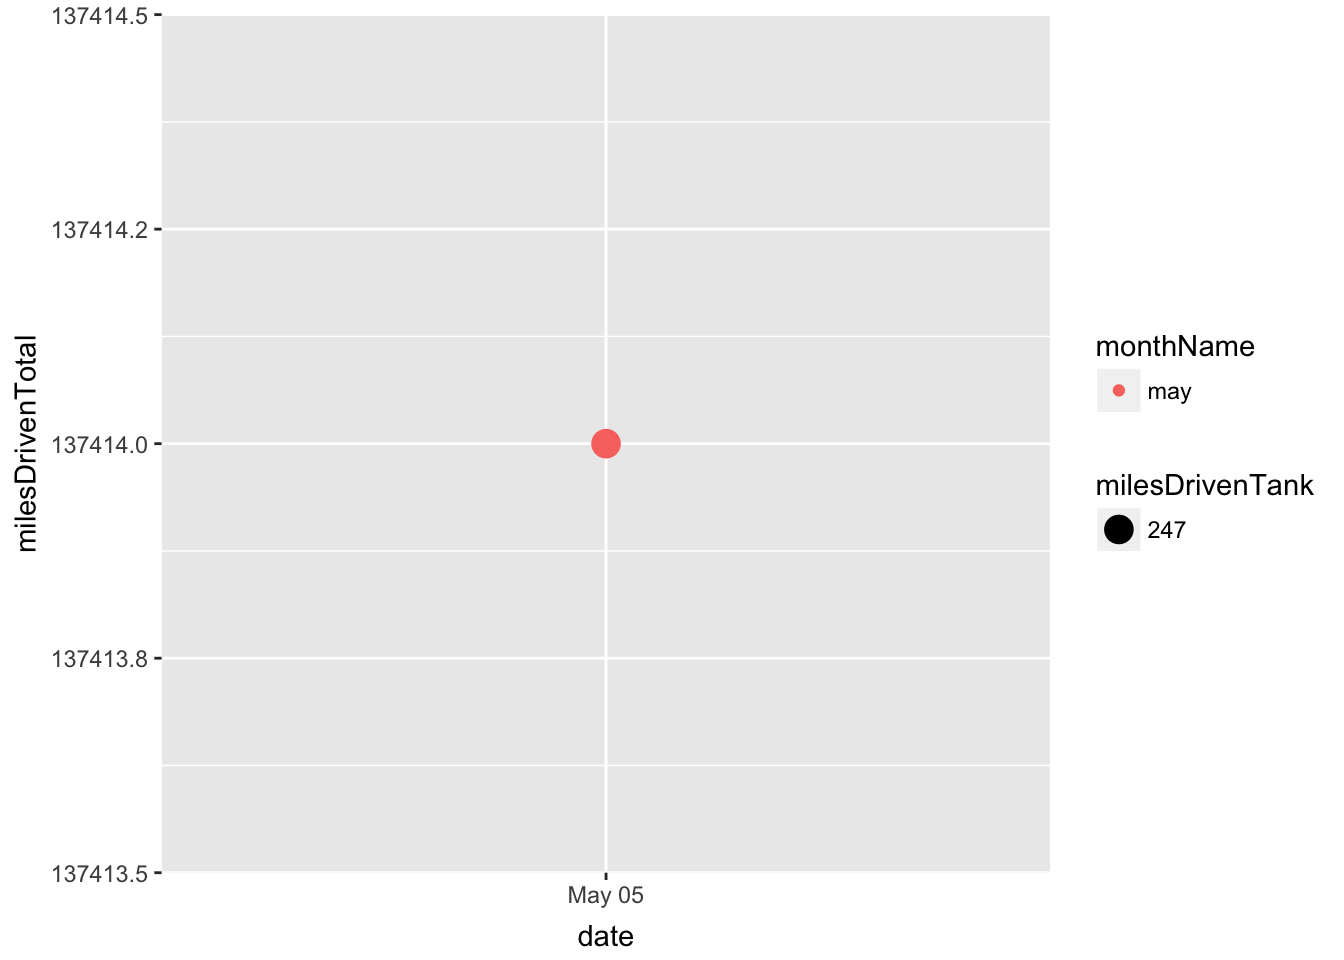
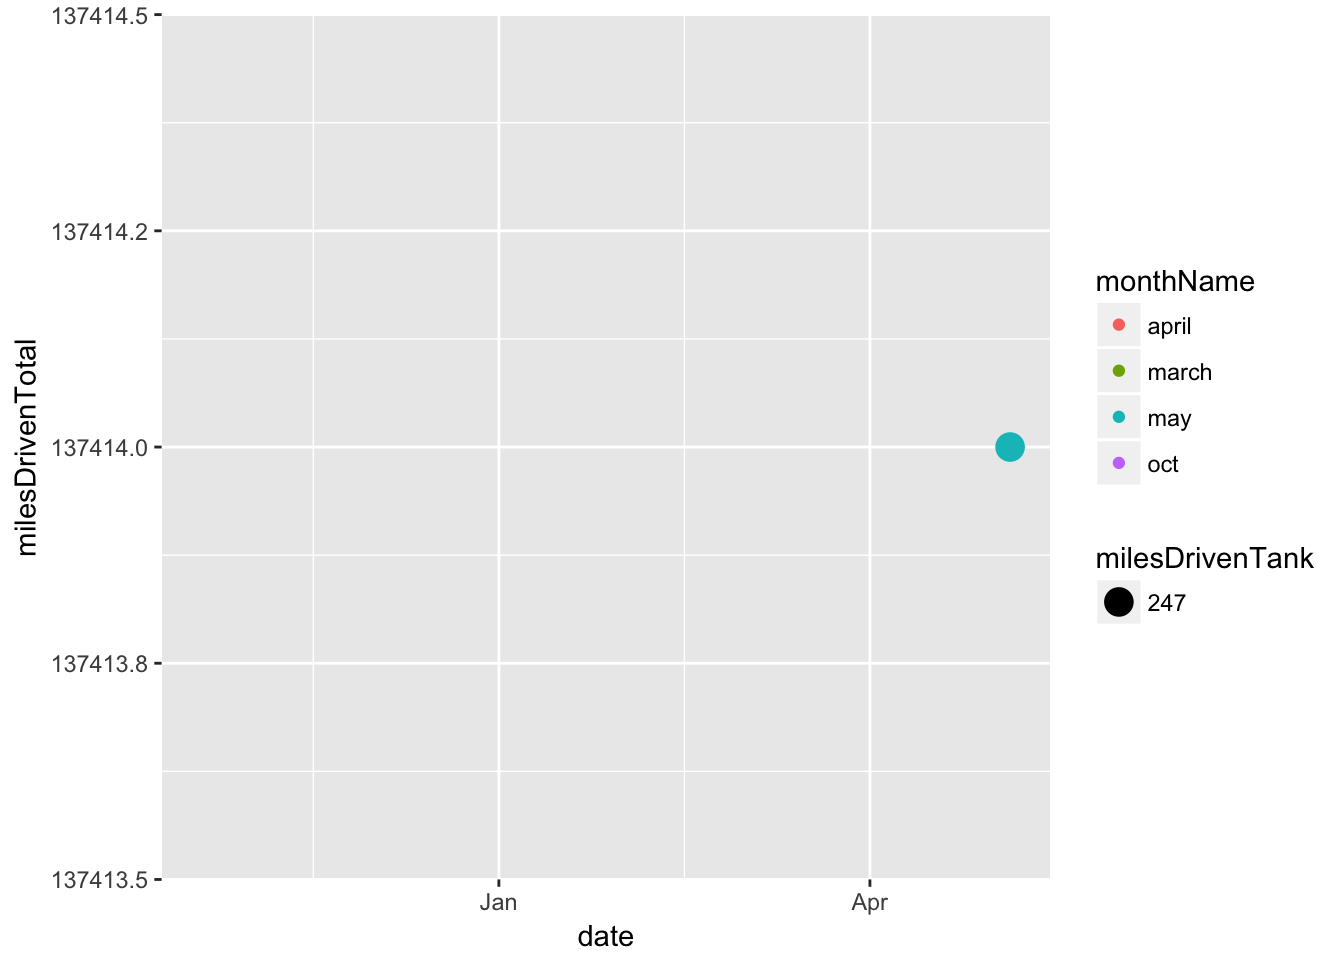
added previous dates

diff --git a/index.html b/index.html
@@ -236,28 +236,31 @@ library(leaflet); library(RCurl); library(lubridate)</code></pre>
 <pre class="r"><code>gLog &lt;- read_csv(&quot;./data/gas_log_data.csv&quot;)</code></pre>
 <pre class="r"><code># check data frame
 glimpse(gLog)</code></pre>
-<pre><code>## Observations: 1
-## Variables: 13
-## $ Timestamp        &lt;chr&gt; &quot;5/5/2017 9:45:51&quot;
-## $ date             &lt;date&gt; 2017-05-05
-## $ time             &lt;chr&gt; &quot;7H 53M 0S&quot;
-## $ location         &lt;chr&gt; &quot;Raceway, 1555 NJ-27, Edison, NJ 08817&quot;
-## $ Latitude         &lt;dbl&gt; 40.50701
-## $ Longitude        &lt;dbl&gt; -74.41436
-## $ milesDrivenTank  &lt;int&gt; 247
-## $ milesDrivenTotal &lt;int&gt; 137414
-## $ pricePerGallon   &lt;dbl&gt; 2.859
-## $ gallonsPurchased &lt;dbl&gt; 17.998
-## $ totalPrice       &lt;dbl&gt; 51.46
-## $ monthNum         &lt;int&gt; 5
-## $ monthName        &lt;chr&gt; &quot;may&quot;</code></pre>
+<pre><code>## Observations: 4
+## Variables: 14
+## $ Timestamp        &lt;chr&gt; &quot;5/5/2017 9:45:51&quot;, &quot;5/5/2017 14:23:45&quot;, &quot;5/5...
+## $ date             &lt;date&gt; 2017-05-05, 2017-03-29, 2017-04-09, 2016-10-21
+## $ time             &lt;chr&gt; &quot;7H 53M 0S&quot;, &quot;19H 21M 0S&quot;, &quot;12H 16M 0S&quot;, &quot;19H...
+## $ location         &lt;chr&gt; &quot;Raceway, 1555 NJ-27, Edison, NJ 08817&quot;, &quot;Luk...
+## $ Latitude         &lt;dbl&gt; 40.50701, 40.50107, 40.50107, 40.50107
+## $ Longitude        &lt;dbl&gt; -74.41436, -74.42207, -74.42207, -74.42207
+## $ milesDrivenTank  &lt;int&gt; 247, NA, NA, NA
+## $ milesDrivenTotal &lt;int&gt; 137414, NA, NA, NA
+## $ pricePerGallon   &lt;dbl&gt; 2.859, 2.199, 2.359, 2.039
+## $ gallonsPurchased &lt;dbl&gt; 17.998, 19.378, 16.705, 19.301
+## $ totalPrice       &lt;dbl&gt; 51.46, 42.61, 39.41, 39.35
+## $ monthNum         &lt;int&gt; 5, 3, 4, 10
+## $ monthName        &lt;chr&gt; &quot;may&quot;, &quot;march&quot;, &quot;april&quot;, &quot;oct&quot;
+## $ year             &lt;int&gt; 2017, 2017, 2017, 2016</code></pre>
 <pre class="r"><code># Total miles driven as a function of time 
 ggplot(gLog, aes(x = date, y = milesDrivenTotal, 
                  color = monthName, size = milesDrivenTank)) + 
     geom_point()</code></pre>
+<pre><code>## Warning: Removed 3 rows containing missing values (geom_point).</code></pre>
 <p><img src="index_files/figure-html/plotTotalMiles-1.png" width="672" /></p>
 <pre class="r"><code>ggplot(gLog, aes(x = date, y = milesDrivenTank, color = pricePerGallon)) + 
     geom_point()</code></pre>
+<pre><code>## Warning: Removed 3 rows containing missing values (geom_point).</code></pre>
 <p><img src="index_files/figure-html/plotTotalMiles-2.png" width="672" /></p>
 
 
